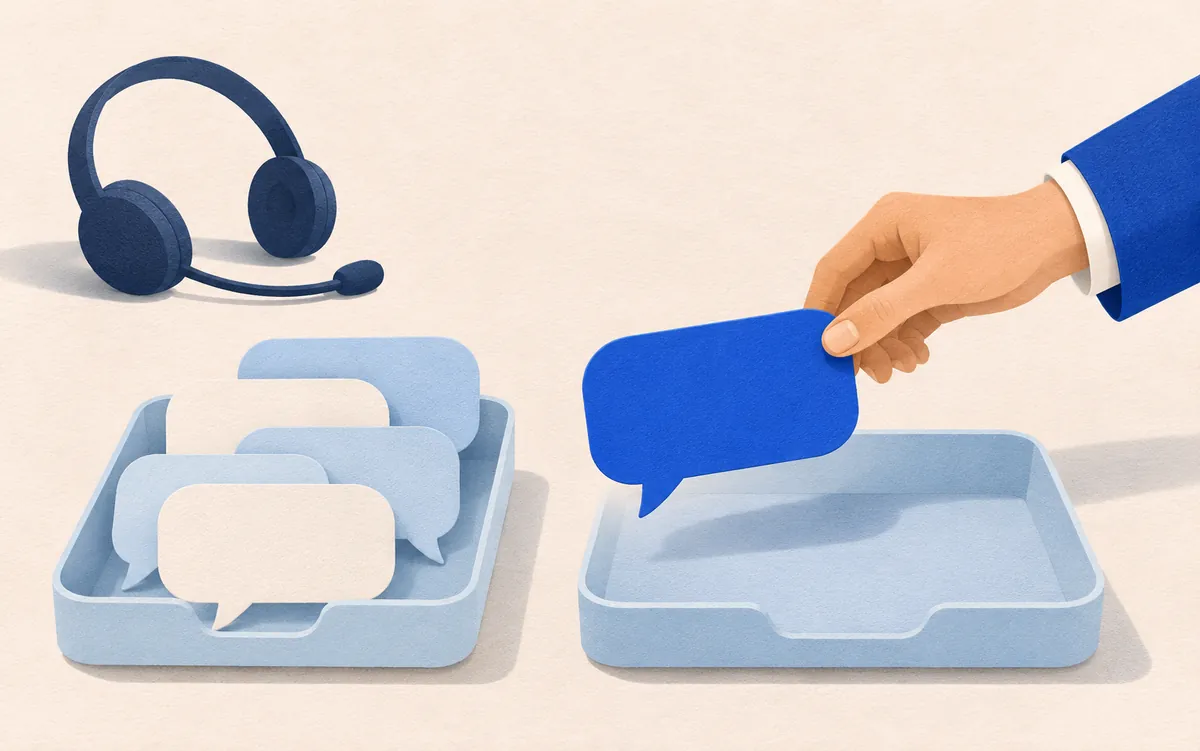
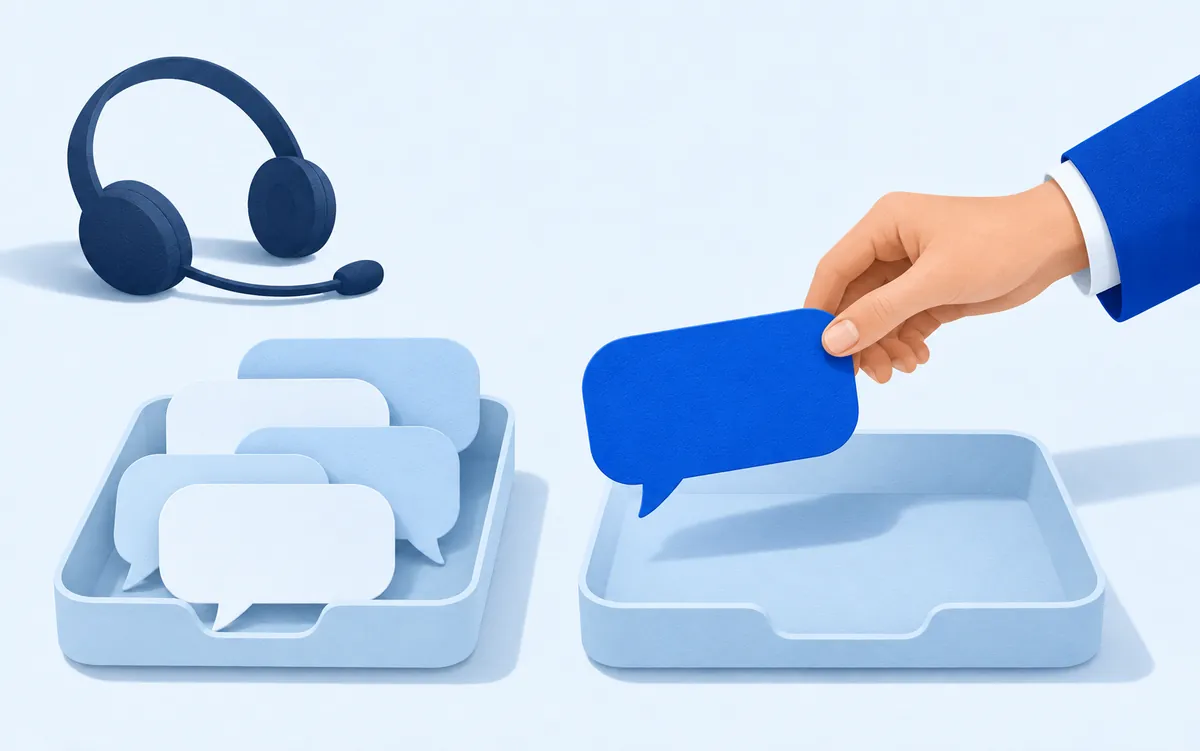
Accorder les cas clients aux blancs bleutés et dynamiser le carrousel

diff --git a/components/home/CaseStudyCarousel.module.css b/components/home/CaseStudyCarousel.module.css
@@ -12,10 +12,13 @@
 .viewport::-webkit-scrollbar { display: none; }
 .viewport::after { content: ''; flex: 0 0 calc(var(--peek) - var(--gap)); }
 .slide { flex: 0 0 calc(100% - var(--peek)); min-width: 0; display: flex; scroll-snap-align: start; }
-.card { display: grid; grid-template-columns: minmax(0, 1fr) minmax(0, 1.05fr); width: 100%; overflow: hidden; border: 1px solid #d9e2ef; border-radius: 22px; background: #173d72; color: #fff; }
-.art { position: relative; display: flex; align-items: center; min-width: 0; background: #f5f2e9; overflow: hidden; }
+.card { display: grid; grid-template-columns: minmax(0, 1fr) minmax(0, 1.05fr); width: 100%; overflow: hidden; border: 1px solid #d9e2ef; border-radius: 22px; background: #173d72; color: #fff; transition: opacity .4s ease, transform .6s cubic-bezier(.2,.7,.3,1); }
+.slide[data-active="false"] .card { opacity: .65; transform: scale(.985); }
+.art { position: relative; display: flex; align-items: center; min-width: 0; background: #eff7ff; overflow: hidden; }
 .art img { width: 100%; height: auto; transition: transform .7s cubic-bezier(.2,.7,.3,1); }
 .card:hover .art img { transform: scale(1.035); }
+.slide[data-active="true"] .body { animation: case-reveal .55s cubic-bezier(.2,.7,.3,1) both; }
+.carousel[data-playing="true"] .slide[data-active="true"] .art img { animation: illustration-drift var(--reading-time) ease-out both; }
 .body { display: flex; flex-direction: column; padding: 34px 36px 26px; }
 .card .body .client { color: #c8d9f2; font-size: 12px; line-height: 1.5; margin-bottom: 18px; }
 .card .body h3 { color: #fff; font-size: clamp(27px, 2.6vw, 34px); line-height: 1.2; letter-spacing: -.035em; font-weight: 550; text-wrap: initial; }
@@ -30,9 +33,14 @@
 .card:focus-visible { outline: 3px solid #fff !important; outline-offset: -7px !important; }
 .pagination { display: grid; grid-template-columns: repeat(4, minmax(0, 1fr)); gap: 18px; margin-top: 16px; }
 .pagination button { display: flex; flex-direction: column; align-items: stretch; gap: 9px; min-width: 0; min-height: 52px; padding: 8px 0; border: 0; background: transparent; color: #5b6e88; font-size: 12px; text-align: left; }
-.marker { height: 3px; border-radius: 9px; background: #dce4ef; transition: background-color .25s ease; }
+.marker { display: block; position: relative; height: 3px; border-radius: 9px; background: #dce4ef; overflow: hidden; transition: background-color .25s ease; }
+.progress { display: block; width: 100%; height: 100%; background: #285db6; transform-origin: left; }
+.carousel[data-playing="true"] .progress { animation: case-progress var(--reading-time) linear both; }
 .pagination button[aria-current="true"] { color: #173d72; font-weight: 600; }
-.pagination button[aria-current="true"] .marker, .pagination button:hover .marker { background: #285db6; }
+.pagination button:hover .marker { background: #b2c8e9; }
+@keyframes case-progress { from { transform: scaleX(0); } to { transform: scaleX(1); } }
+@keyframes case-reveal { from { opacity: .35; transform: translateY(12px); } to { opacity: 1; transform: translateY(0); } }
+@keyframes illustration-drift { from { transform: scale(1); } to { transform: scale(1.035); } }
 .srOnly { position: absolute; width: 1px; height: 1px; padding: 0; margin: -1px; overflow: hidden; clip-path: inset(50%); white-space: nowrap; border: 0; }
 @media (max-width: 1100px) {
   .viewport { --peek: 40px; --gap: 16px; }
@@ -75,4 +83,5 @@
 @media (prefers-reduced-motion: reduce) {
   .carousel *, .carousel *::before, .carousel *::after { animation: none; transition: none; scroll-behavior: auto; }
   .card:hover .art img { transform: none; }
+  .slide[data-active="false"] .card { opacity: 1; transform: none; }
 }

diff --git a/components/home/CaseStudyCarousel.tsx b/components/home/CaseStudyCarousel.tsx
@@ -1,10 +1,10 @@
 'use client';
 
-import { Children, useCallback, useEffect, useRef, useState, type ReactNode } from 'react';
+import { Children, useCallback, useEffect, useRef, useState, type CSSProperties, type ReactNode } from 'react';
 import { ArrowLeft, ArrowRight, Pause, Play } from 'lucide-react';
 import s from './CaseStudyCarousel.module.css';
 
-const READING_TIME = 9000;
+const READING_TIME = 5500;
 
 /** Cards stay server-rendered. Only their navigation and optional rotation are interactive. */
 export default function CaseStudyCarousel({ children, labels }: { children: ReactNode; labels: string[] }) {
@@ -91,6 +91,7 @@ export default function CaseStudyCarousel({ children, labels }: { children: Reac
   }
 
   return <div className={s.carousel} role="region" aria-roledescription="carrousel" aria-label="Projets clients Althoce"
+    data-playing={playing} style={{ '--reading-time': `${READING_TIME}ms` } as CSSProperties}
     onMouseEnter={() => setHovered(true)} onMouseLeave={() => setHovered(false)}
     onFocusCapture={event => {
       if ((event.target as HTMLElement).closest('[data-rotation]')) return;
@@ -116,8 +117,8 @@ export default function CaseStudyCarousel({ children, labels }: { children: Reac
         event.preventDefault();
         navigate(index, true);
       }}>
-      {slides.map((slide, index) => <div className={s.slide} key={labels[index]} data-slide={index} role="group" aria-roledescription="diapositive" aria-label={`${index + 1} sur ${slides.length} : ${labels[index]}`}>{slide}</div>)}
+      {slides.map((slide, index) => <div className={s.slide} key={labels[index]} data-slide={index} data-active={active === index} role="group" aria-roledescription="diapositive" aria-label={`${index + 1} sur ${slides.length} : ${labels[index]}`}>{slide}</div>)}
     </div>
-    <div className={s.pagination} aria-label="Choisir un cas client">{labels.map((label, index) => <button key={label} type="button" aria-label={`Voir le cas ${label}`} aria-current={active === index ? 'true' : undefined} aria-controls="home-case-slides" onClick={() => navigate(index)}><span className={s.marker} /><span className={s.paginationLabel}>{label}</span></button>)}</div>
+    <div className={s.pagination} aria-label="Choisir un cas client">{labels.map((label, index) => <button key={label} type="button" aria-label={`Voir le cas ${label}`} aria-current={active === index ? 'true' : undefined} aria-controls="home-case-slides" onClick={() => navigate(index)}><span className={s.marker} aria-hidden="true">{active === index && <span className={s.progress} />}</span><span className={s.paginationLabel}>{label}</span></button>)}</div>
   </div>;
 }

diff --git a/components/HomePage.module.css b/components/HomePage.module.css
@@ -12,7 +12,7 @@
 .home :focus-visible { outline: 3px solid #2563eb; outline-offset: 5px; }
 .container { width: min(1200px, calc(100% - 80px)); margin-inline: auto; }
 .section { padding-block: 76px; }
-.soft { background: #f6f8fb; }
+.soft { background: linear-gradient(135deg, #f5faff, #edf5ff); }
 .sectionHeading { display: grid; grid-template-columns: minmax(0, 1.1fr) minmax(0, 1fr); gap: 80px; align-items: end; margin-bottom: 32px; }
 .sectionHeading p { max-width: 480px; }
 .home .lead { margin-top: 22px; font-size: 16px; line-height: 1.8; max-width: 560px; }

diff --git a/docs/quality/accueil-carrousel-cas-2026-11-12.md b/docs/quality/accueil-carrousel-cas-2026-11-12.md
@@ -2,20 +2,21 @@
 
 ## Évolution demandée
 
-La section « Ce que l’IA change, sur le terrain. » présente les quatre projets déjà présents sur l’accueil dans un carrousel. Les photos de bureau sont remplacées, dans cette section uniquement, par quatre illustrations éditoriales inspirées des couvertures actuelles du blog : papier clair, bleus, grain léger et objets métier.
+La section « Ce que l’IA change, sur le terrain. » présente les quatre projets déjà présents sur l’accueil dans un carrousel. Les photos de bureau sont remplacées, dans cette section uniquement, par quatre illustrations éditoriales inspirées des couvertures actuelles du blog : blanc légèrement bleu ciel, bleus, grain léger et objets métier.
 
 - Comptabilité : factures et lignes rapprochées.
 - Prospection : messages, globe et négoce de vins.
 - Service client : demandes orientées vers le support.
 - Accueil téléphonique : téléphone, agenda et dossier.
 
-Les illustrations sont générées pour cette présentation. Elles ne représentent pas les locaux ni les personnes des clients. Fichiers WebP de 1 200 × 751 pixels, entre 44 et 65 ko, environ 229 ko au total avant optimisation par Next Image. Chargement à la demande, dimensions réservées et textes alternatifs.
+Les illustrations sont générées pour cette présentation. Elles ne représentent pas les locaux ni les personnes des clients. Fichiers WebP de 1 200 × 751 pixels, entre 25 et 39 ko, environ 134 ko au total avant optimisation par Next Image. Chargement à la demande, dimensions réservées et textes alternatifs.
 
 ## Lecture et interactions
 
 - Une carte principale et l’amorce de la suivante ; illustration au-dessus du texte sur mobile.
-- Défilement automatique toutes les neuf secondes, seulement lorsque la section est suffisamment visible et l’onglet actif.
-- Flèches, sélection directe par projet, compteur et bouton Pause/Reprendre.
+- Défilement automatique toutes les 5,5 secondes, seulement lorsque la section est suffisamment visible et l’onglet actif.
+- Flèches, sélection directe par projet, compteur et bouton Pause/Reprendre. Barre de progression synchronisée avec le délai de 5,5 secondes.
+- Entrée légère du texte à chaque changement ; zoom discret du visuel pendant la lecture automatique. Les cartes hors sélection sont légèrement atténuées. Tous ces effets respectent la réduction des mouvements.
 - Arrêt au survol ; pause durable à l’interaction tactile, au défilement manuel ou au focus clavier. Reprise explicite par le bouton.
 - Navigation clavier avec les flèches, Début et Fin ; le focus suit le lien du projet sélectionné.
 - Défilement tactile natif avec alignement des cartes ; les liens restent disponibles dans le HTML initial.
@@ -41,3 +42,19 @@ Les cartes services de la livraison précédente sont conservées. Les métadonn
 - Graphe du code actualisé : 495 nœuds et 380 relations.
 
 Livraison sur la branche d’aperçu de la PR 13 uniquement. Pas de fusion ni de mise en production.
+
+
+## Ajustement de palette et de rythme
+
+À la demande du client, suppression de la dominante crème dans les quatre illustrations (fonds et surfaces de papier). Le fond de l’image utilise désormais un blanc bleu ciel voisin de `#eff7ff`, repris dans le conteneur. La section utilise un dégradé très léger de `#f5faff` à `#edf5ff`. Les objets bleu marine et cobalt, le grain et les tons naturels des mains sont conservés.
+
+Les quatre fichiers sont remplacés aux mêmes emplacements, dans la branche d’aperçu :
+
+- `/tmp/althoce-secteurs-metiers-20261110/public/images/cases/comptabilite-editorial.webp`
+- `/tmp/althoce-secteurs-metiers-20261110/public/images/cases/prospection-editorial.webp`
+- `/tmp/althoce-secteurs-metiers-20261110/public/images/cases/service-client-editorial.webp`
+- `/tmp/althoce-secteurs-metiers-20261110/public/images/cases/accueil-telephonique-editorial.webp`
+
+Édition avec l’outil de génération d’images intégré, une demande par visuel, puis compression WebP sans autre retouche. Poids cumulé : 133 586 octets. Consigne commune utilisée :
+
+> Edit the supplied image, preserving its exact composition, all objects, the hand anatomy and natural skin tone, the dark navy and cobalt objects, and the subtle paper grain. This is a precise background and white-balance correction only. Replace the warm beige/cream paper background with a very light cool sky-blue white, approximately #EFF7FF. Make all cream-colored white papers and label surfaces clean cool white with a very subtle pale blue tint; all shadows should be cool blue-grey rather than yellow-grey. Bright, airy, professional blue-and-white editorial illustration that blends into a modern French consultancy website. Keep the same layout, framing, aspect ratio, object positions, number of objects, hand, and business illustration concept. Do not redesign or add anything. No text, no new logos. Avoid ALL beige, ivory, yellow, peach or warm cast in the background or paper surfaces; keep the hand's original natural skin color. Output the complete single edited image.
